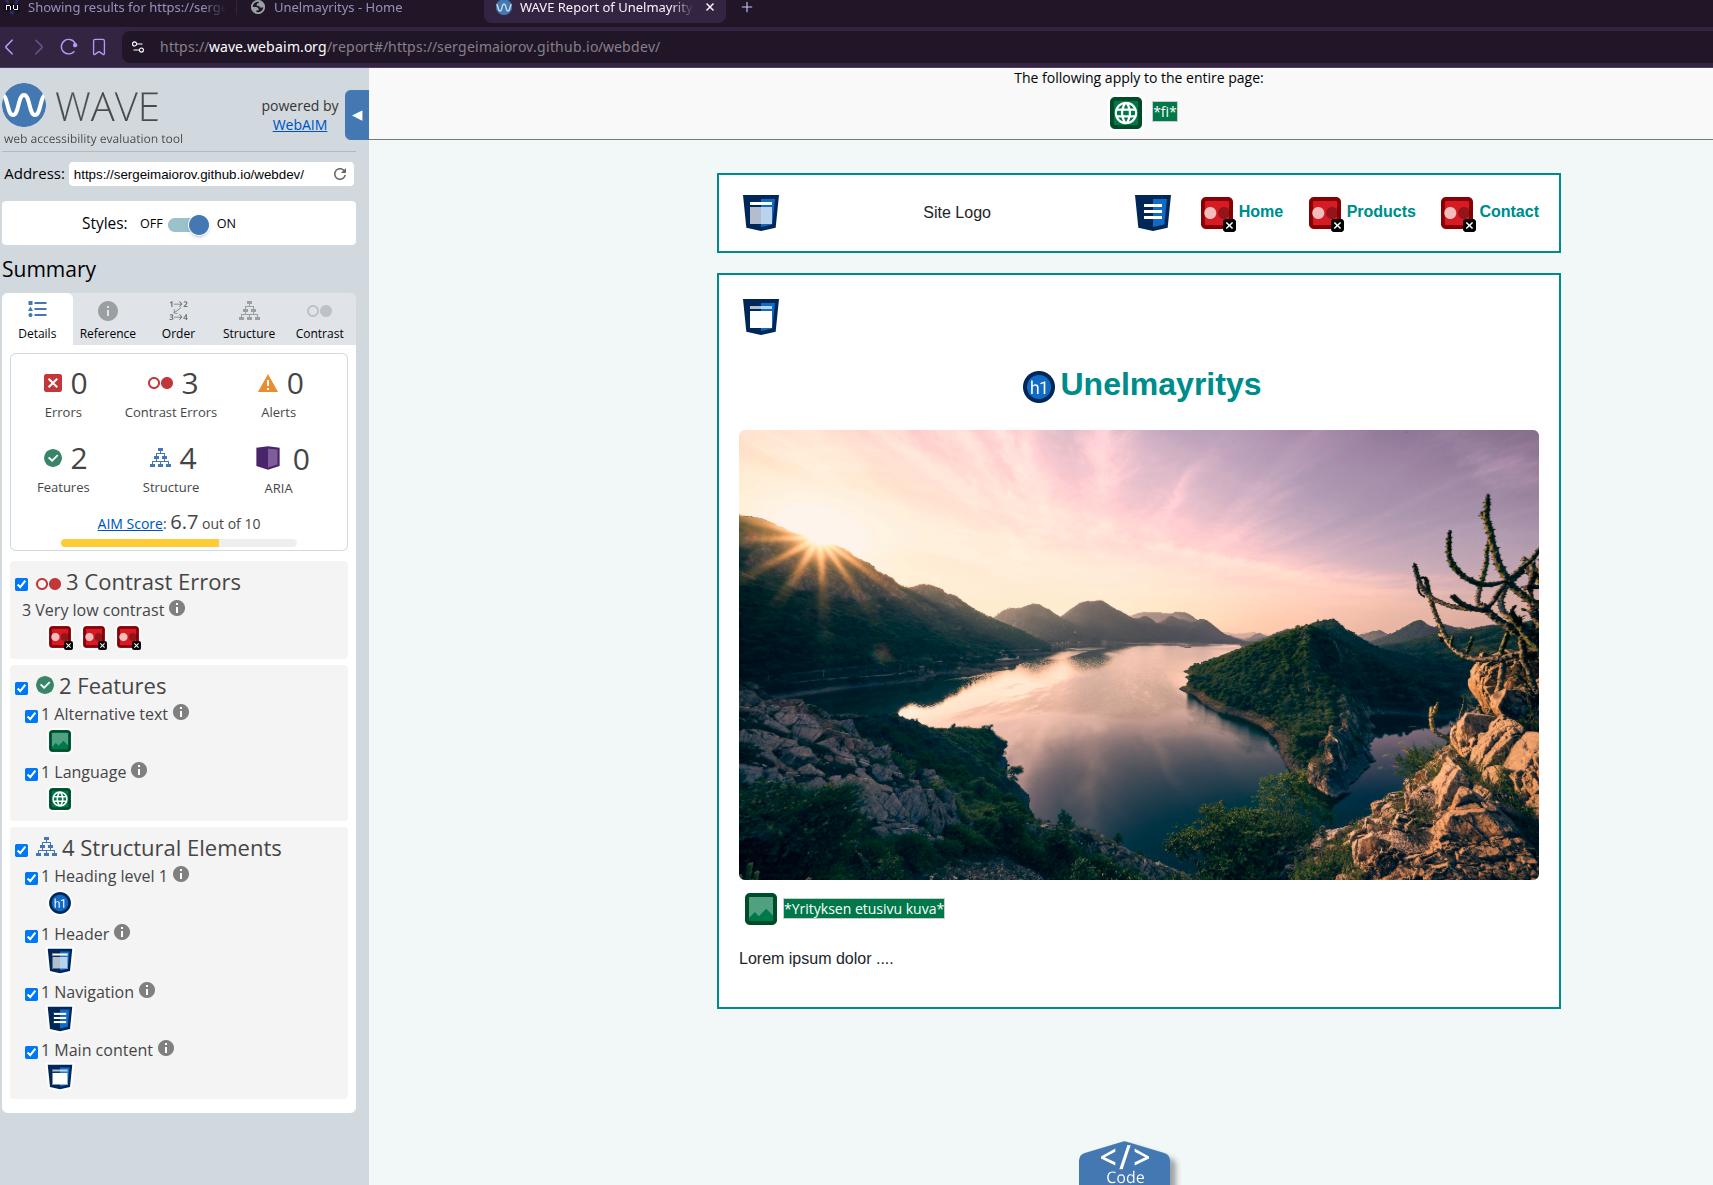
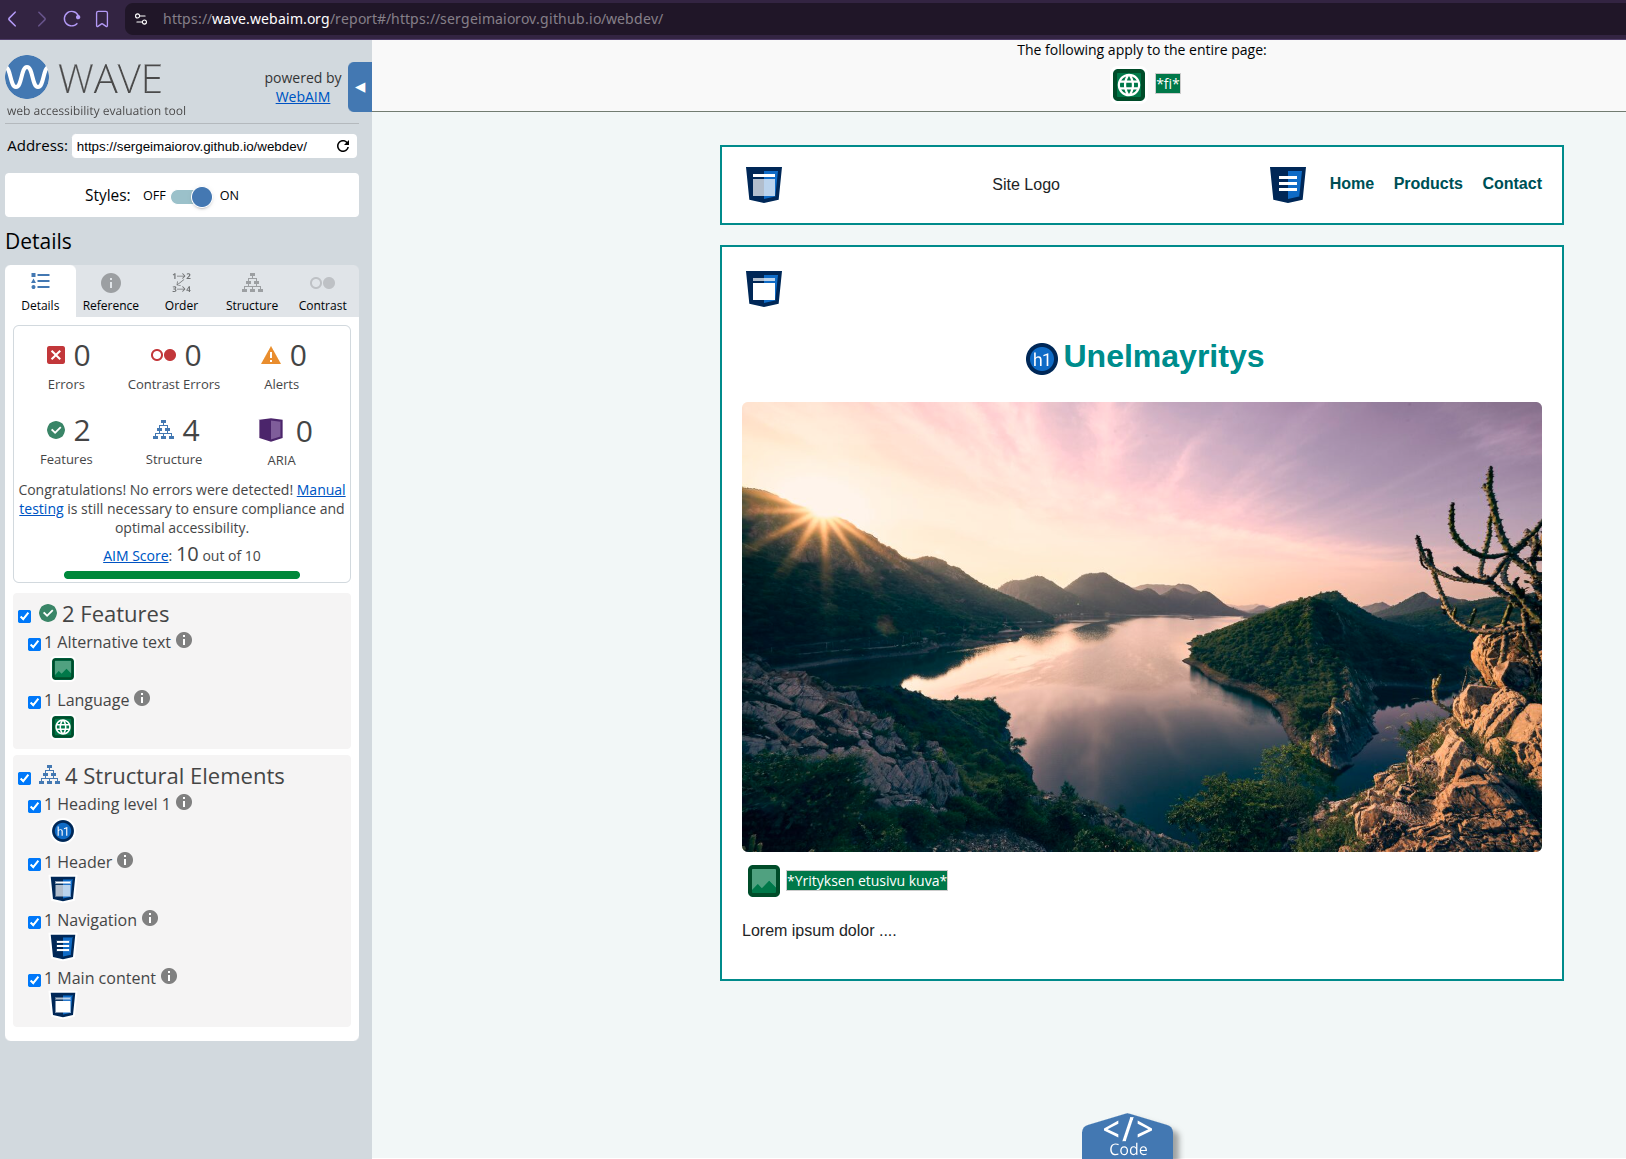
Valmis_tehtäviä_31102026

Changed region(s): [[0.0, 0.0, 1.0, 1.0], [0.4305, 0.2796, 0.9533, 0.8697], [0.615, 0.9629, 0.738, 1.0]]

diff --git a/js-tehtavat/js-mod01-2/t7/t7.js b/js-tehtavat/js-mod01-2/t7/t7.js
@@ -7,12 +7,3 @@ for (let i = 0; i < rolls; i++) {
 }
 
 document.querySelector("#target").innerHTML = "Sum of dice rolls: " + sum;
-const rolls = parseInt(prompt("How many dice rolls?"));
-let sum = 0;
-
-for (let i = 0; i < rolls; i++) {
-    const die = Math.floor(Math.random() * 6) + 1;
-    sum = sum + die;
-}
-
-document.querySelector("#target").innerHTML = "Sum of dice rolls: " + sum;

diff --git a/readme.md b/readme.md
@@ -15,3 +15,7 @@ Aloitettu JS Module 1 & 2
 ## 30102026
 Jatka tehtävän tekemistä - Tehtävä 1: Yrityksen verkkosivusto HTML:llä ja CSS:llä
 Jatka tehtävän tekemistä -  JS Module 1 & 2
+
+## 31102026
+Valmis Tehtävä 1: Yrityksen verkkosivusto HTML:llä ja CSS:llä
+Osasto valmis  JS Module 1 & 2
